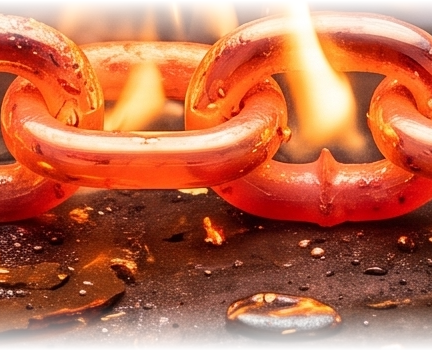
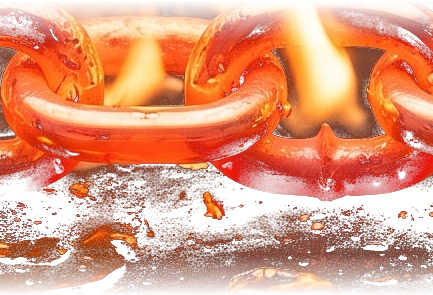
Chain: zoom out (thinner, longer) + transparent background
- Key out the chain backgrounds (wood/dark surface) so only the metal and
  fire show — the chain now sits transparently on the dark UI.
- Thinner band and wider node spacing so the chain reads longer and the whole
  progression is more zoomed out with more breathing room.
- Fire scaled to match.

Purely visual; no change to solves, scoring, gating or data exposure.

Claude-Session: https://claude.ai/code/session_01SuNKt4WZ35mvYEVMpW5XtP

diff --git a/frontend/src/components/chain/Chain2D.ts b/frontend/src/components/chain/Chain2D.ts
@@ -29,15 +29,15 @@ export interface Chain2DOptions {
 
 // Layout — a horizontal progression. Cards sit at node centres; the chain runs
 // continuously behind them and is visible in the gaps.
-export const NODE_SPACING = 280;
-export const NODE_MARGIN = 110;
-export const STAGE_HEIGHT = 250;
-const CHAIN_H = 78;        // chain band height on screen
+export const NODE_SPACING = 320;   // longer chain runs between cards
+export const NODE_MARGIN = 120;
+export const STAGE_HEIGHT = 210;
+const CHAIN_H = 46;        // thinner band — zoomed out, longer chain
 
 const IGNITE_MS = 1400;    // premium ignition ramp
-const FIRE_DISP_H = 124;   // fire band display height (px)
-const FIRE_BASE = 0.70;    // fraction of the fire below its dest-top (flames rise)
-const FIRE_PAD = 22;       // horizontal padding around each burning segment
+const FIRE_DISP_H = 96;    // fire band display height (px)
+const FIRE_BASE = 0.68;    // fraction of the fire below its dest-top (flames rise)
+const FIRE_PAD = 20;       // horizontal padding around each burning segment
 
 export function chainContentWidth(nodeCount: number): number {
   const n = Math.max(1, nodeCount);
